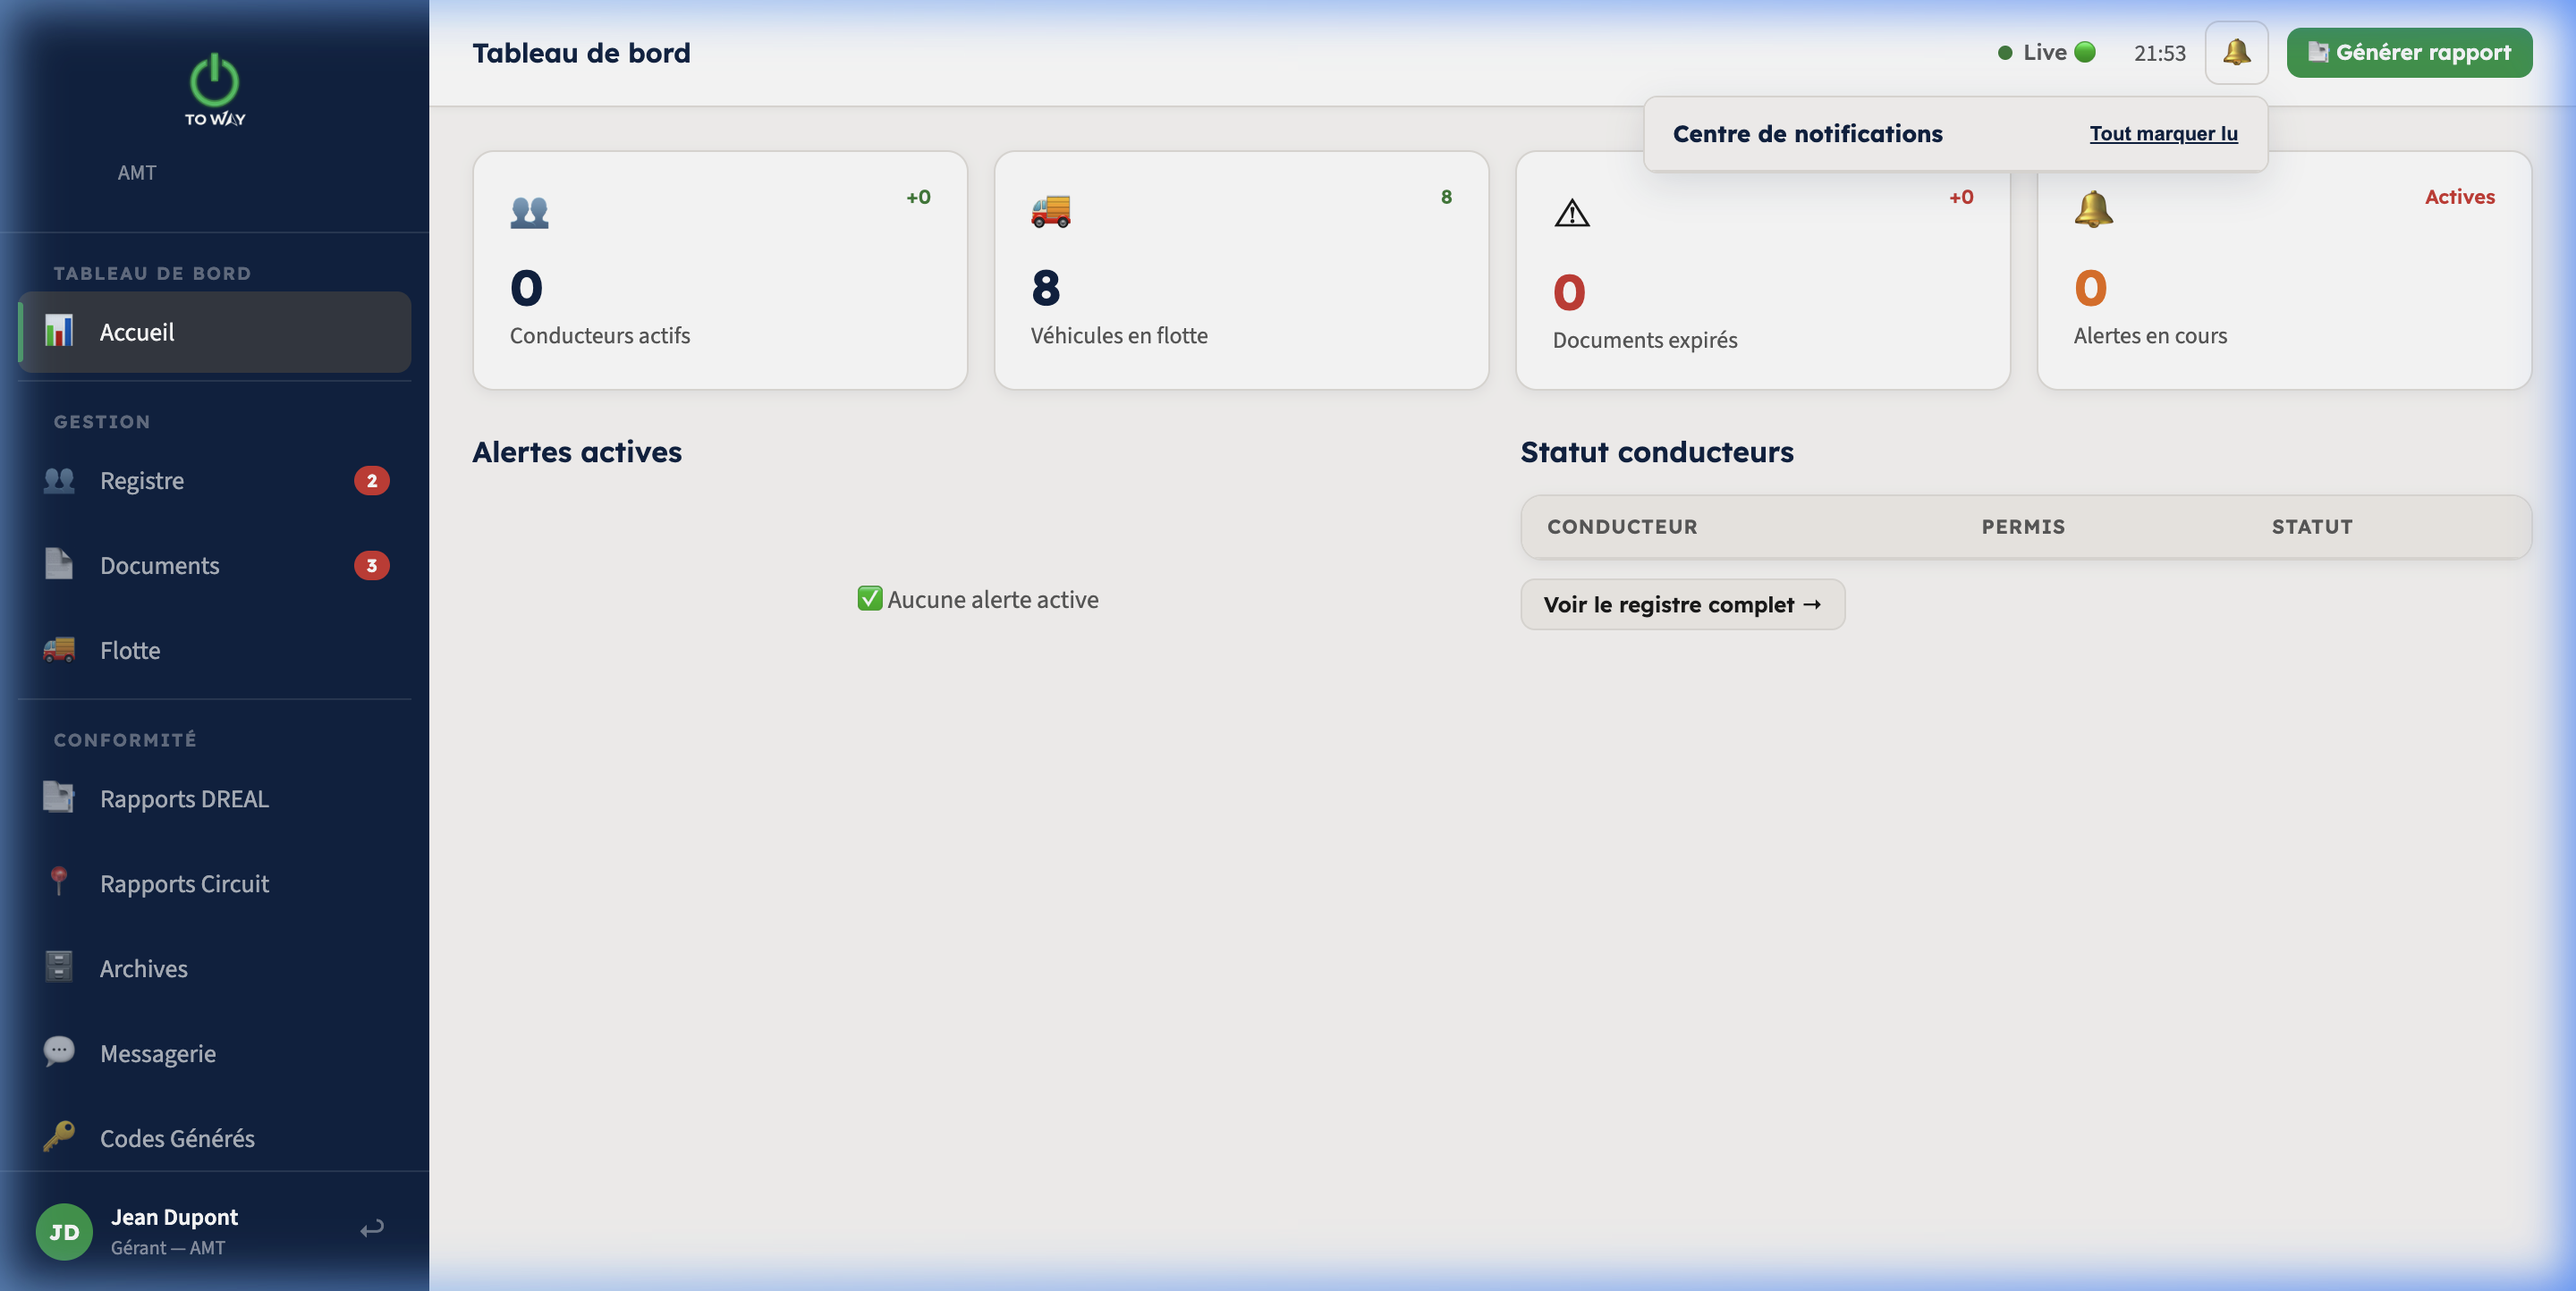
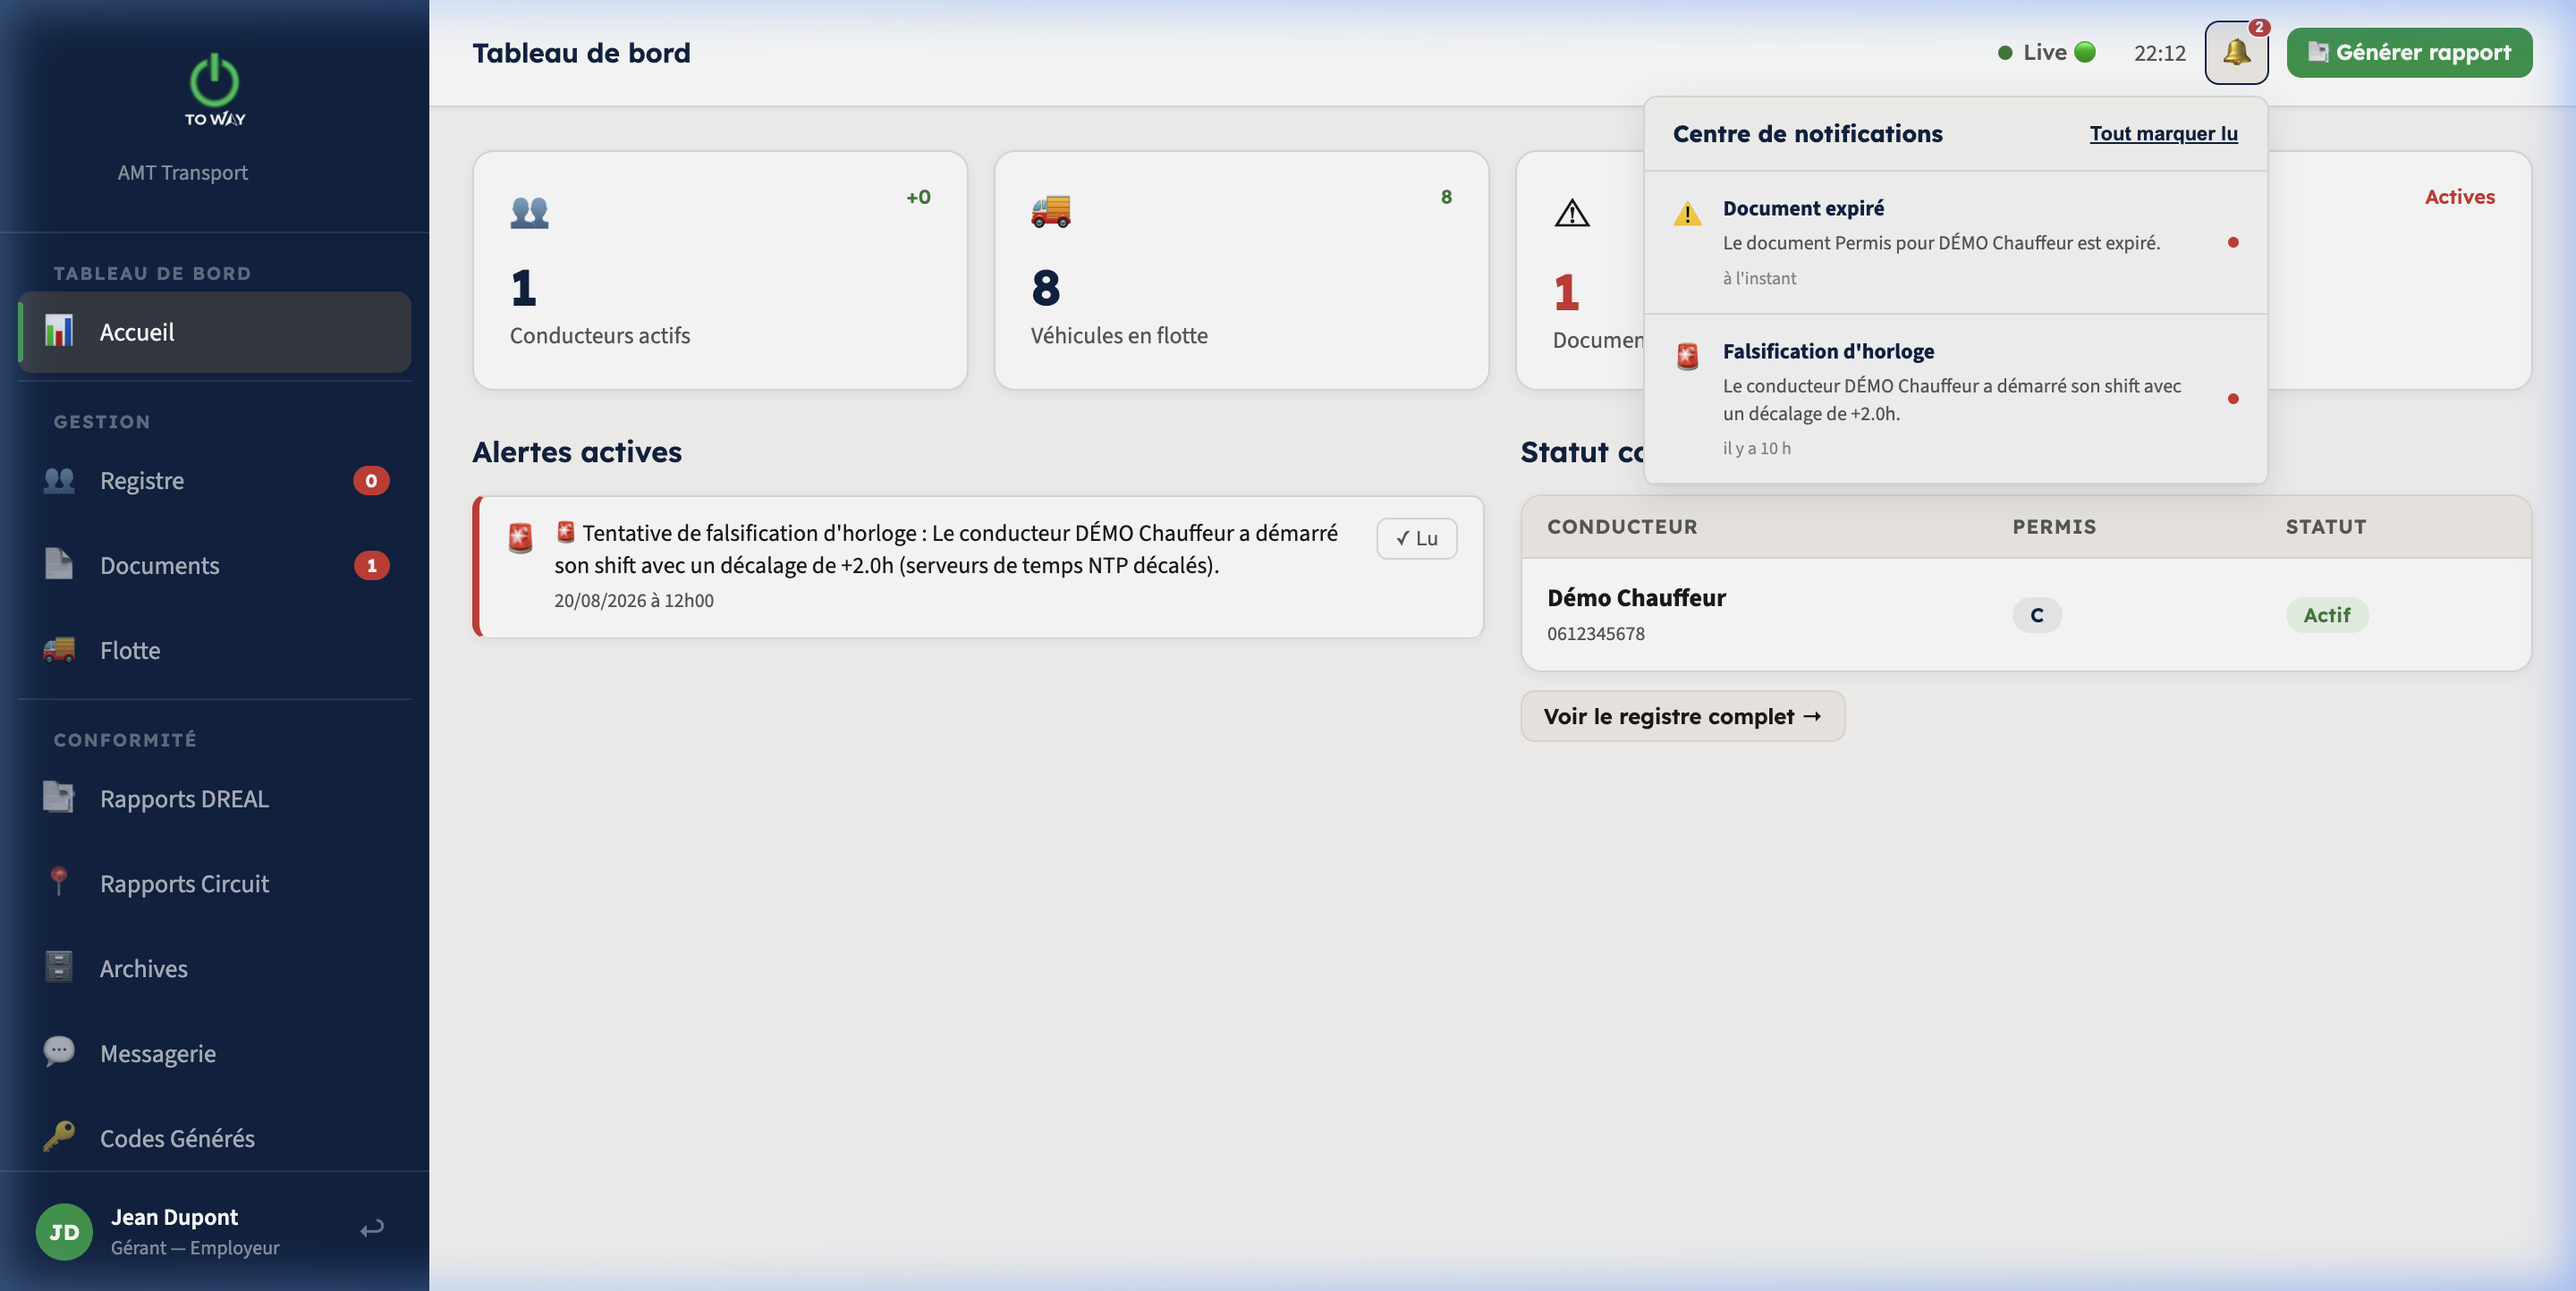
fix: resolve notifications dropdown initial timing and click sync logic

diff --git a/app-web.html b/app-web.html
@@ -950,6 +950,7 @@
   document.addEventListener('DOMContentLoaded', async () => {
     updateClock();
     setInterval(updateClock, 10000);
+    checkAllEmployerAlerts();
     switchPage('dashboard');
 
     checkAirtableConfig();
@@ -2412,12 +2413,13 @@
   let webNotifications = [];
 
   function pushWebNotification(notif) {
-    const existingIdx = webNotifications.findIndex(n => n.type === notif.type && n.title === notif.title && n.message === notif.message);
+    const id = notif.id || 'notif_' + Math.random().toString(36).substr(2, 9);
+    const existingIdx = webNotifications.findIndex(n => n.id === id);
     if (existingIdx !== -1) {
       return;
     }
     webNotifications.unshift({
-      id: 'notif_' + Math.random().toString(36).substr(2, 9),
+      id: id,
       is_read: false,
       triggered_at: new Date().toISOString(),
       ...notif
@@ -2533,12 +2535,16 @@
         const hoursSkew = (ev.device_clock_diff / 3600).toFixed(1);
         
         pushWebNotification({
+          id: 'notif_skew_' + ev.id,
           type: 'critical',
           title: "Falsification d'horloge",
           message: `Le conducteur ${uName} a démarré son shift avec un décalage de +${hoursSkew}h.`,
           target_page: 'dashboard',
           triggered_at: ev.server_timestamp || ev.local_timestamp
         });
+      } else {
+        const notif = webNotifications.find(n => n.id === 'notif_skew_' + ev.id);
+        if (notif) notif.is_read = true;
       }
     });
 
@@ -2560,12 +2566,16 @@
         const label = docTypes[d.type] || d.type;
 
         pushWebNotification({
+          id: 'notif_doc_' + d.id,
           type: 'warning',
           title: 'Document expiré',
           message: `Le document ${label} pour ${name} est expiré.`,
           target_page: 'documents',
           triggered_at: d.created_at || new Date().toISOString()
         });
+      } else {
+        const notif = webNotifications.find(n => n.id === 'notif_doc_' + d.id);
+        if (notif) notif.is_read = true;
       }
     });
 
@@ -2577,14 +2587,20 @@
         const name = u ? S2WUtils.fullName(u) : 'Conducteur';
         
         pushWebNotification({
+          id: 'notif_msg_' + m.id,
           type: 'message',
           title: 'Nouveau message',
           message: `Nouveau message de ${name} : "${m.text.substring(0, 30)}${m.text.length > 30 ? '...' : ''}"`,
           target_page: 'messagerie',
           triggered_at: m.created_at || new Date().toISOString()
         });
+      } else {
+        const notif = webNotifications.find(n => n.id === 'notif_msg_' + m.id);
+        if (notif) notif.is_read = true;
       }
     });
+
+    updateWebNotificationsUI();
   }
 
   /* ═══════════════════════════════════════════════════════════════════════
@@ -2705,10 +2721,16 @@
       if (ev) {
         ev.device_clock_diff = 0;
         S2W.update('event_logs', id, ev);
+        
+        const notif = webNotifications.find(n => n.id === 'notif_skew_' + id);
+        if (notif) notif.is_read = true;
       }
     } else {
       S2W.update('alerts', id, { acknowledged: true, resolved_at: new Date().toISOString() });
+      const notif = webNotifications.find(n => n.id === 'notif_alert_' + id);
+      if (notif) notif.is_read = true;
     }
+    updateWebNotificationsUI();
     showToast('Alerte marquée comme lue', 'success');
     switchPage('dashboard');
   }
@@ -2913,7 +2935,24 @@
   }
 
   function validateDocUser(userId) {
-    showToast('Documents validés pour ce conducteur', 'success');
+    const docs = S2W.table('documents') || [];
+    docs.forEach(d => {
+      if (d.owner_id === userId && d.owner_type === 'user') {
+        const diff = (new Date(d.expires_at) - new Date()) / 86400000;
+        if (diff < 0) {
+          const newExpiry = new Date();
+          newExpiry.setFullYear(newExpiry.getFullYear() + 1);
+          d.expires_at = newExpiry.toISOString().split('T')[0];
+          S2W.update('documents', d.id, d);
+          
+          const notif = webNotifications.find(n => n.id === 'notif_doc_' + d.id);
+          if (notif) notif.is_read = true;
+        }
+      }
+    });
+    updateWebNotificationsUI();
+    showToast('Documents validés et renouvelés pour ce conducteur', 'success');
+    renderDocTab(_docTab);
   }
 
   /* ═══════════════════════════════════════════════════════════════════════
